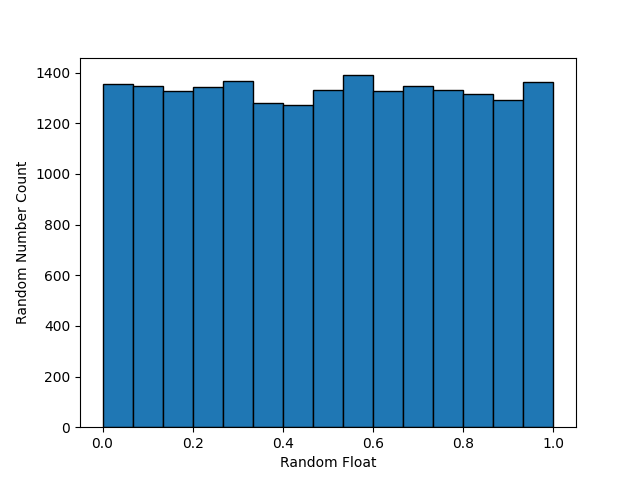
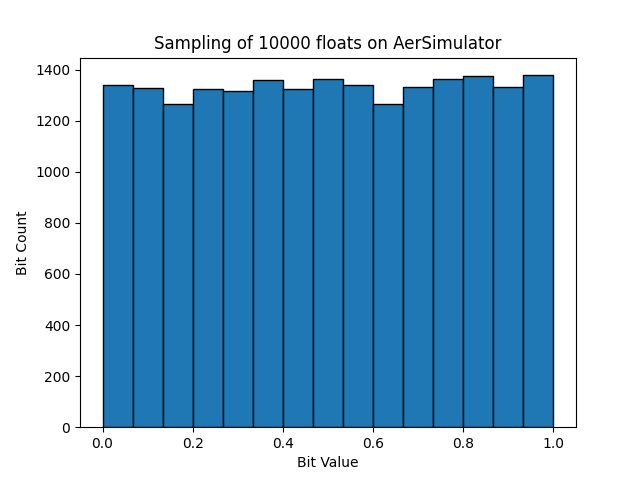
New graphs and changes

diff --git a/tests/randint_test.py b/tests/randint_test.py
@@ -1,18 +1,32 @@
 import qrand
 import matplotlib.pyplot as plt
 import numpy as np
+from qiskit_ibm_runtime.fake_provider import FakeSherbrooke
 
 upper_int = 10
 lower_int = 0
+num_samples = 10000
 
-rand_values = [qrand.randint(lower_int, upper_int) for i in range(0,10000)]
+# rand_values = [qrand.randint(lower_int, upper_int) for i in range(0, num_samples)]
+
+# labels, counts = np.unique(rand_values, return_counts=True)
+
+# plt.figure(1)
+# plt.bar(labels, counts, align="center")
+# plt.xlabel("Random Number")
+# plt.ylabel("Random Number Count")
+# plt.title(f"Sampling of {num_samples} integers on AerSimulator")
+
+# plt.show()
+
+qrand.init(backend=FakeSherbrooke())
+rand_values = [qrand.randint(lower_int, upper_int) for i in range(0, num_samples)]
 
 labels, counts = np.unique(rand_values, return_counts=True)
 
-plot = plt.figure()
+plt.figure(2)
 plt.bar(labels, counts, align="center")
-plt.xticks(range(0, 10, 1))
 plt.xlabel("Random Number")
 plt.ylabel("Random Number Count")
-
+plt.title(f"Sampling of {num_samples} integers on FakeSherbrooke")
 plt.show()

diff --git a/tests/randbits_test.py b/tests/randbits_test.py
@@ -1,15 +1,32 @@
 import qrand
 import matplotlib.pyplot as plt
 import numpy as np
+from qiskit_ibm_runtime.fake_provider import FakeSherbrooke
 
-rand_values = qrand.randbits(100000)
+num_bits = 100000
+
+rand_values = qrand.randbits(num_bits)
 
 labels, counts = np.unique(rand_values, return_counts=True)
 
-plot = plt.figure()
+plt.figure(1)
 plt.bar(labels, counts, align="center")
 plt.xticks(range(0, 1, 2))
 plt.xlabel("Random Bit")
 plt.ylabel("Bit Count")
+plt.title(f"Sampling of {num_bits} bits on AerSimulator")
+plt.show()
 
+qrand.init(backend=FakeSherbrooke())
+
+rand_values = qrand.randbits(num_bits)
+
+labels, counts = np.unique(rand_values, return_counts=True)
+
+plt.figure(2)
+plt.bar(labels, counts, align="center")
+plt.xticks(range(0, 1, 2))
+plt.xlabel("Random Bit")
+plt.ylabel("Bit Count")
+plt.title(f"Sampling of {num_bits} bits on FakeSherbrooke")
 plt.show()

diff --git a/tests/rand_test.py b/tests/rand_test.py
@@ -1,14 +1,26 @@
 import qrand
 import matplotlib.pyplot as plt
 import numpy as np
-import qiskit_ibm_runtime.fake_provider.
+from qiskit_ibm_runtime.fake_provider import FakeSherbrooke
 
 num_rands = 20000
 num_bins = 15
 
-qrand.init(backend=FakeSherbrooke())
-
 rand_values = [qrand.rand() for i in range(0, num_rands)]
 
+plt.figure(1)
 plt.hist(rand_values, num_bins, edgecolor="black")
+plt.xlabel("Bit Value")
+plt.ylabel("Bit Count")
+plt.title(f"Sampling of {num_rands} floats on AerSimulator")
+plt.show()
+
+qrand.init(backend=FakeSherbrooke())
+rand_values = [qrand.rand() for i in range(0, num_rands)]
+
+plt.figure(2)
+plt.hist(rand_values, num_bins, edgecolor="black")
+plt.xlabel("Bit Value")
+plt.ylabel("Bit Count")
+plt.title(f"Sampling of {num_rands} floats on FakeSherbrooke")
 plt.show()

diff --git a/tests/shannon_calc.py b/tests/shannon_calc.py
@@ -1,0 +1,23 @@
+import qrand
+import matplotlib.pyplot as plt
+import numpy as np
+from qiskit_ibm_runtime.fake_provider import FakeSherbrooke
+import os
+
+
+upper_int = 256
+lower_int = 0
+num_samples = 100
+
+rand_values = [qrand.randint(lower_int, upper_int) for i in range(0,num_samples)]
+labels, counts = np.unique(rand_values, return_counts=True)
+
+shannon_entropy = 0
+for count in counts:
+    print(count)
+    shannon_entropy += (count/upper_int) / np.log2(1/(count/upper_int))
+
+print(f"Shannon Entropy is {shannon_entropy}")
+
+shannon_file = open(os.getcwd() + "/data/shannon_calcs.csv", "w+")
+shannon_file.write(str(shannon_entropy))

diff --git a/qrand/qrand.py b/qrand/qrand.py
@@ -70,10 +70,10 @@ def randint(low : int, high : int) -> int:
 
 def rand() -> float:
     """
-    Creates a random float between 0 and 1
+    Creates a random float between 0(inclusive) and 1(exclusibe)
 
     Returns:
-        float: Random float between 0 and 1
+        float: Random float between 0(inclusive) and 1(exclusive)
     """
 
     divider = 2**_num_sample_bits
